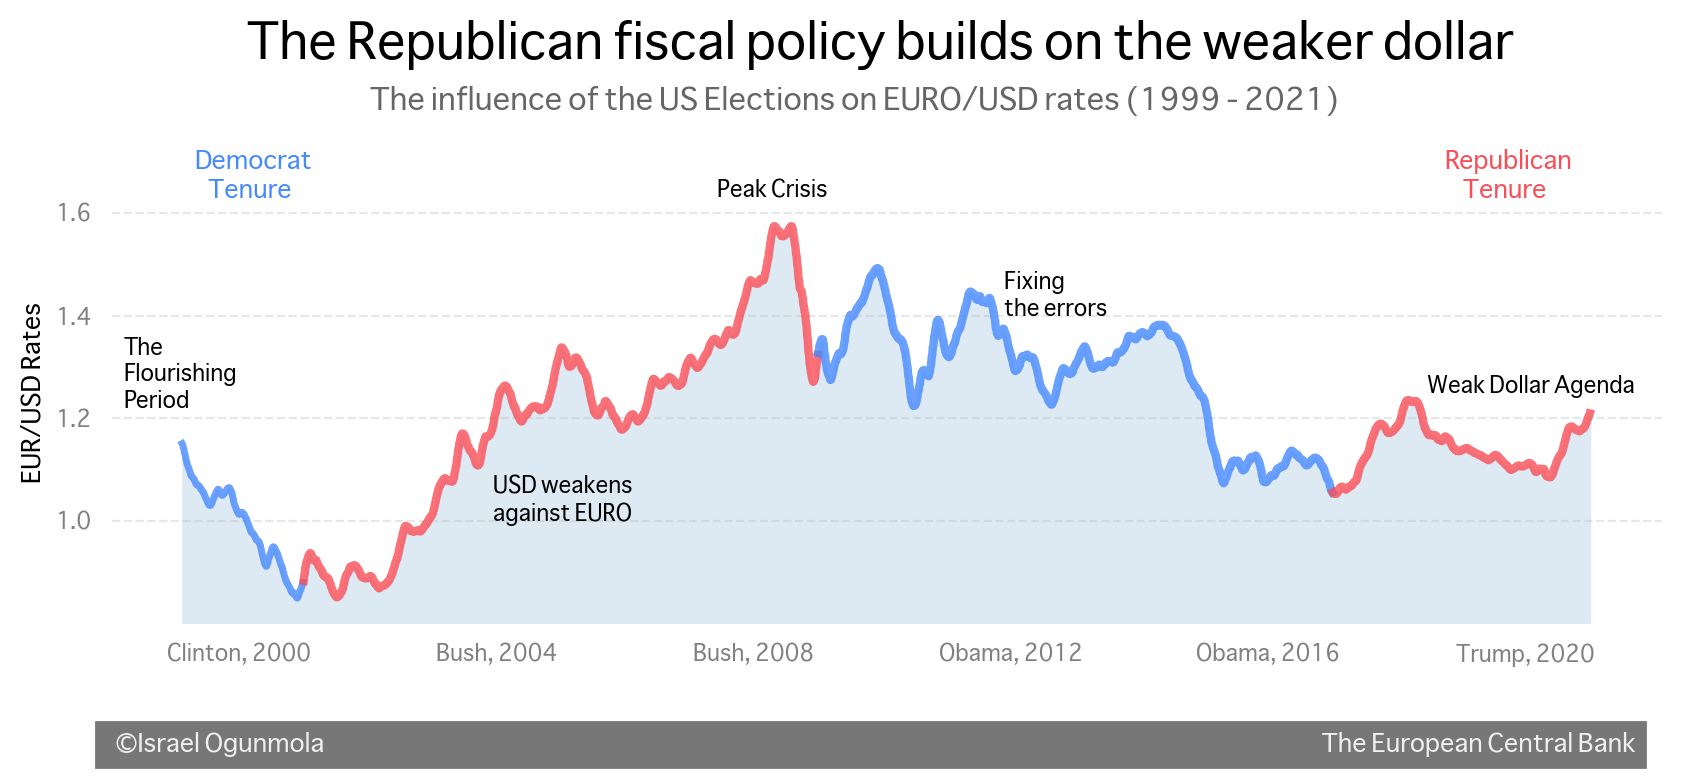
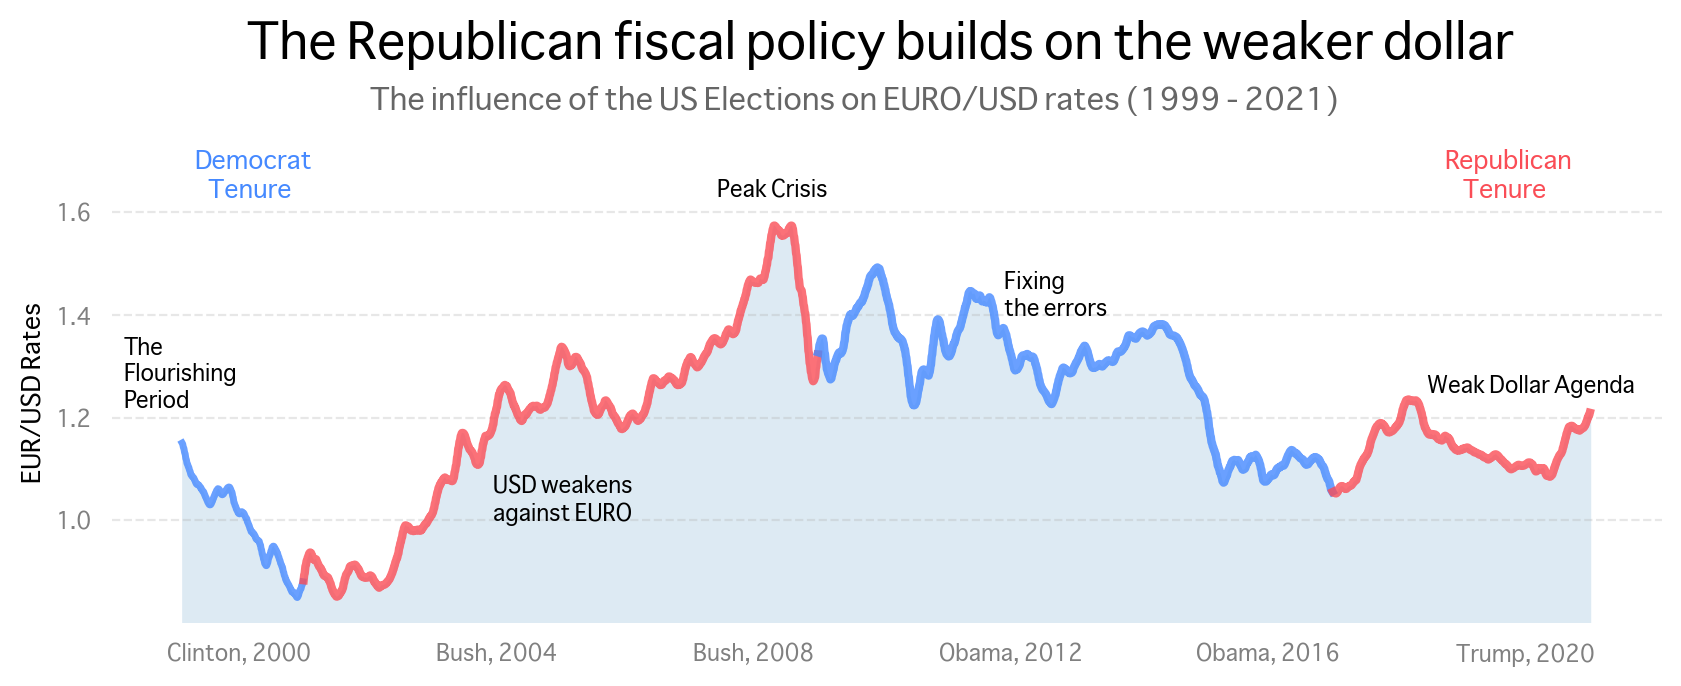
chore: Update visual in documentation

diff --git a/README.md b/README.md
@@ -11,7 +11,7 @@ Every US ruling party has a different economic plan. Republicans tend to focus i
 
 ## Findings
 Whether the EURO/USD rate will appreciate or depreciate in the months after an election seems to depend on the candidate who wins. <br><br>
-<img src="./images/finding.png" height=500px, width=1000px><br><br>
+<img src="./images/finding.png"><br><br>
 When Republicans win, EURO/USD rates seem to rise, signifying a weaker dollar. This pattern reverses when Democrats win as the Dollar generally regains its strength against the Euro. The movement is partly explained by the opposing fiscal and monetary policies these parties prefer to adopt.
 
 ## Tools
